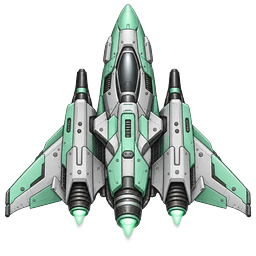
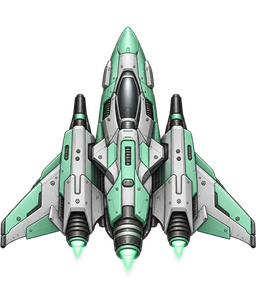
fix(art): glass-craft halves for the quiz; ship trimmed to 64x76 footprint

Changed region(s): [[0.0, 0.0, 1.0, 0.9375]]

diff --git a/src/config/assets.js b/src/config/assets.js
@@ -1,8 +1,8 @@
-// Optional generated art. Stars stay code-drawn forever (color accuracy); everything else may be swapped
-// for a PNG later. IMAGE_ASSETS lists ONLY files that actually exist in public/img/, so nothing 404s.
-// To adopt an image: put the PNG in public/img/, add { key, path: 'img/<file>.png' } here. Keys the game looks for:
-//   ship (64x76 look, any size is scaled), asteroid, fire-button,
-//   bg-space, bg-furnace, title-art, glass-craft.
+// Generated art in public/img/. Stars stay code-drawn forever (color accuracy). IMAGE_ASSETS lists ONLY files that
+// actually exist in public/img/, so nothing 404s. To adopt another image: put the PNG in public/img/ and add
+// { key, path: 'img/<file>.png' } here. Loaded keys: ship (256x304, scaled to the 64x76 footprint),
+// asteroid-1..3, star-shape, furnace-shape (grayscale, tinted by code), bg-space-far, bg-space-near, bg-furnace,
+// bg-cluster, title-art, glass-craft, briefing-m1..m4. Scenes read them by key (some are wired in later tasks).
 // Code-baked textures (starTextures.js) skip baking when a loaded texture already has the same key.
 export const IMAGE_ASSETS = [
   { key: 'ship', path: 'img/ship.png' },

diff --git a/art/PROVENANCE.md b/art/PROVENANCE.md
@@ -9,7 +9,7 @@ All generated with OpenAI Images API, model `gpt-image-2.5-sunburst` (from OPENA
 | asset | model | date | prompt summary / notes | ref (art/raw/ship-style-a.png) |
 |---|---|---|---|---|
 | style seed ship-style-a | OPENAI_IMAGE_MODEL (teacher set) | 2026-11-03 | style A look pick, script `art/raw/ship-style-a.prompt.mjs` | - |
-| ship | gpt-image-2.5-sunburst | 2026-11-04 | normalized from the approved seed art/raw/ship-style-a.png (256x256, contain, alpha); not regenerated | no (is the ref) |
+| ship | - | 2026-11-04 | normalized from the approved seed art/raw/ship-style-a.png: trimmed to alpha bbox, padded evenly to 64:76, 256x304 (fix round 1; was 256x256 contain); not regenerated | no (is the ref) |
 | asteroid-1..3 | gpt-image-2.5-sunburst | 2026-11-04 | gray-brown chunky asteroid, 3 shapes (round / elongated / triangular with big crater), rim light | yes |
 | star-shape | gpt-image-2.5-sunburst | 2026-11-04 | grayscale-white glow with thin cross spikes, tinted by code. Regenerated once (core was too gray: avg 233; prompt now asks for a large solid white core) -> check-white-core PASS 253/253/253 | no |
 | furnace-shape | gpt-image-2.5-sunburst | 2026-11-04 | grayscale molten metal drop, tinted by code | no |
@@ -18,7 +18,7 @@ All generated with OpenAI Images API, model `gpt-image-2.5-sunburst` (from OPENA
 | bg-furnace | gpt-image-2.5-sunburst | 2026-11-04 | dark charcoal furnace-chamber plating. First try with ref drew a ship inside, rejected (raw kept as bg-furnace.try1-ship.png); regenerated without ref | no (retry); yes (rejected try) |
 | bg-cluster | gpt-image-2.5-sunburst | 2026-11-04 | abstract navy/violet painterly nebula, no stars | no |
 | title-art | gpt-image-2.5-sunburst | 2026-11-04 | mint-and-silver ship flying up through navy/teal nebula, top and bottom thirds open | yes |
-| glass-craft | gpt-image-2.5-sunburst | 2026-11-04 | glassblower's blowpipe with a glowing glass piece, yellow-white to red | yes |
+| glass-craft | gpt-image-2.5-sunburst | 2026-11-04 | fix round 1: first image (bulb, yellow core/red rim, pipe) did not match quiz Q2; regenerated once without ref with a horizontal glass rod, left half yellow-white, right half orange-red, empty top half; 1536x1024 raw cropped to 1536x549 (rod at ~72% height) then 560x200; labels (가)/(나) are drawn at the centers of the halves, y = image center | no (retry); first try yes |
 | briefing-m1 | gpt-image-2.5-sunburst | 2026-11-04 | furnace pouring molten metal white-yellow-orange-red | yes |
 | briefing-m2 | gpt-image-2.5-sunburst | 2026-11-04 | observatory scanner dish and survey ship, mint/silver/navy | yes |
 | briefing-m3 | gpt-image-2.5-sunburst | 2026-11-04 | fictional large red star and small blue star on navy | yes |
